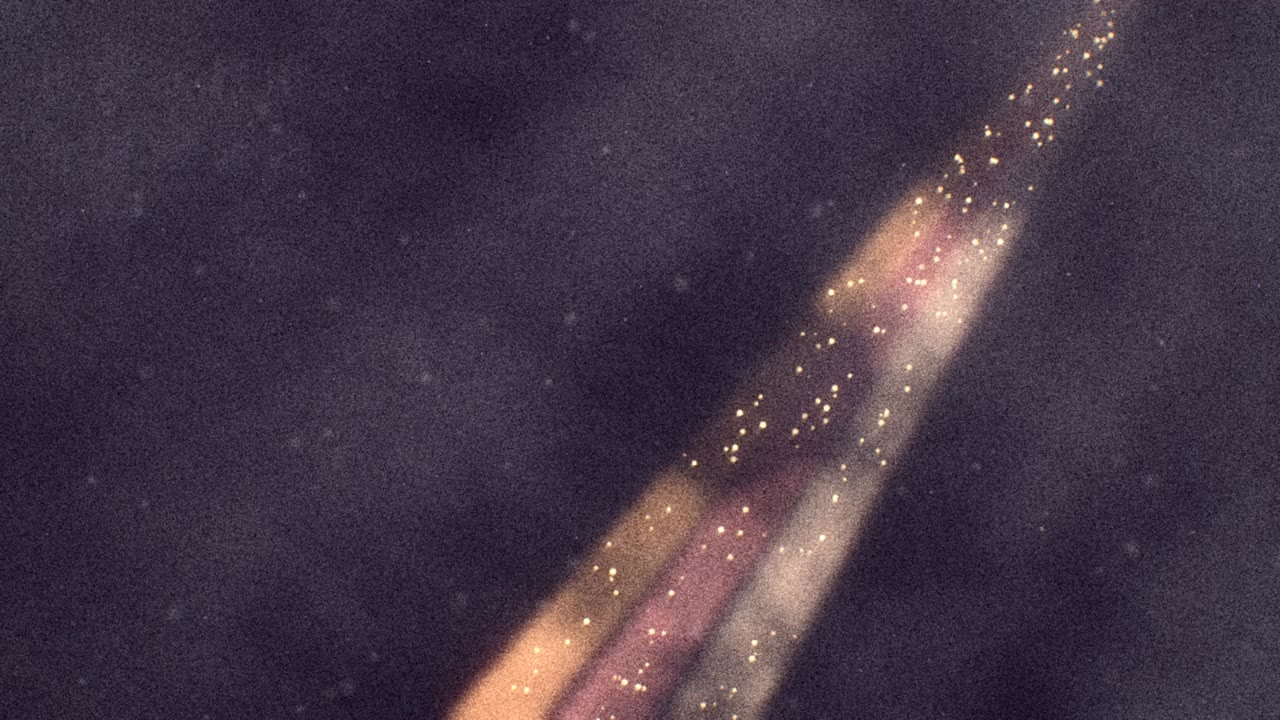
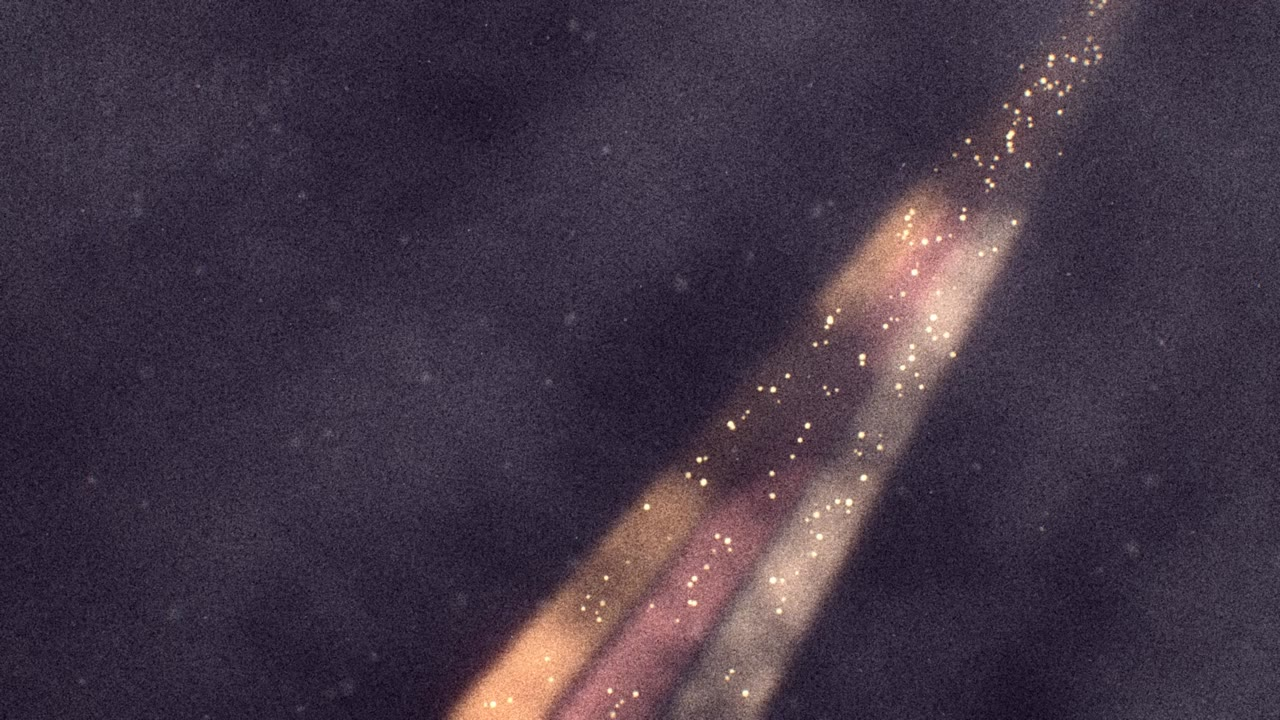
Storyboard: Break II with a steady drift
Claude-Session: https://claude.ai/code/session_013aPae8dR11r7xw8o95d9Yi

diff --git a/storyboard/index.html b/storyboard/index.html
@@ -150,7 +150,7 @@ ol.steps li::marker { font: 600 0.85rem var(--mono); color: var(--ink-2); }
   </video>
   <figcaption><b>Break II</b>
     <span class="tc">3:15.6 → 3:28.4 · bars 56–59</span>
-    <span class="note">His three shafts stay after his words and breathe slowly (over two bars, not on the beat). Dust drifts down inside them; when she answers with a wordless held note (3:24.4) it turns gold and lifts. Just before the coats return on &#x27;But&#x27;, one flicker of the future: the shafts being cut. <a href="renders/break_ii_contact.jpg">Contact sheet</a></span></figcaption>
+    <span class="note">His three shafts stay after his words and breathe slowly (over two bars, not on the beat). Dust drifts down inside them, one steady drift throughout: her, visible only in his light. When she answers with a wordless held note (3:24.4) it turns gold. Just before the coats return on &#x27;But&#x27;, one flicker of the future: the shafts being cut. <a href="renders/break_ii_contact.jpg">Contact sheet</a></span></figcaption>
 </figure>
 <figure class="render" id="render-spoken_i">
   <video controls playsinline preload="metadata" poster="renders/spoken_i_poster.jpg" width="1280" height="720">
@@ -453,7 +453,7 @@ ol.steps li::marker { font: 600 0.85rem var(--mono); color: var(--ink-2); }
       <h3>Break II</h3></header>
     
     <dl>
-      <dt>Picture</dt><dd>His three shafts stay after his words, breathing slowly. Dust drifts down inside them; when she answers with a wordless held note it turns gold and lifts. Just before the coats return, one flicker of the future: the shafts being cut.</dd>
+      <dt>Picture</dt><dd>His three shafts stay after his words, breathing slowly. Dust drifts down inside them; when she answers with a wordless held note it turns gold, still drifting. Just before the coats return, one flicker of the future: the shafts being cut.</dd>
       <dt>Type</dt><dd>No lyric. His last line finishes leaving.</dd>
       <dt>Sync</dt><dd>The shafts breathe over two bars, not on the beat; the gold swells with her held note (3:24.4-3:28.3); the glimpse lands on its last onset.</dd>
     </dl>
